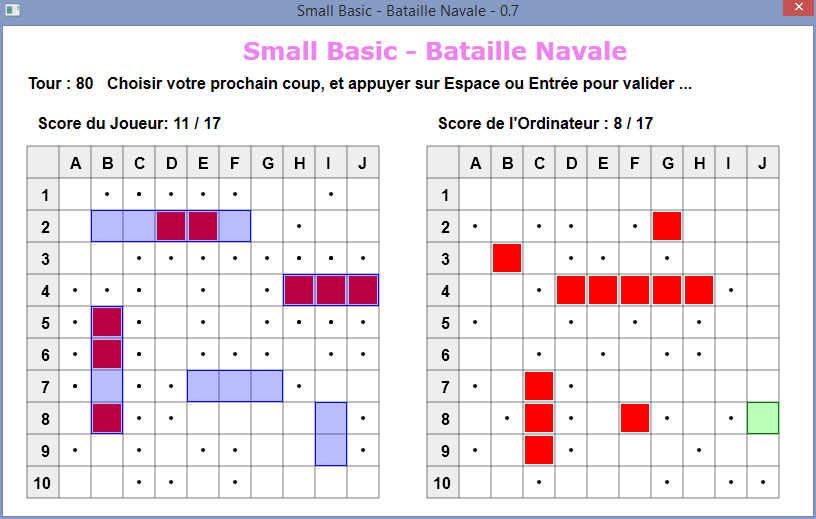
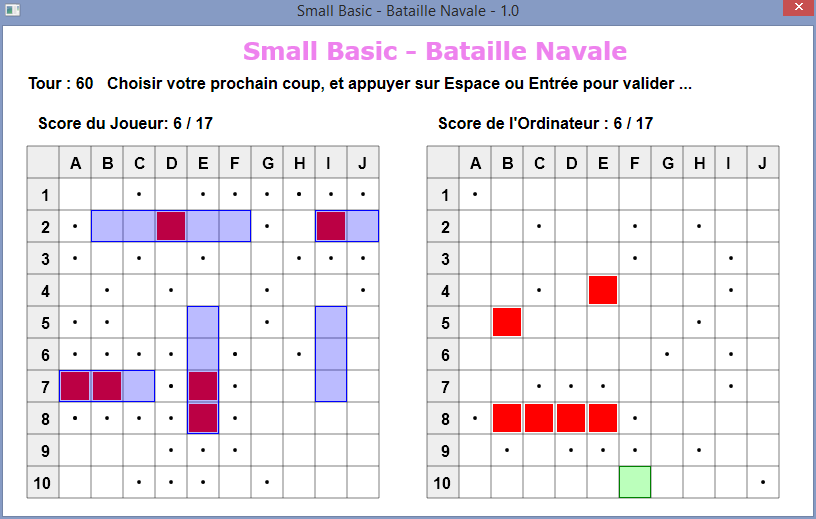
Display forbidden cells in player creation board

diff --git a/README.md b/README.md
@@ -2,15 +2,21 @@
 
 Jeu de Bataille Navale en Small Basic.
 
-- Vous pouvez importer le jeu : [PMD822-0](http://smallbasic.com/program/?PMD822-0)
+- Vous pouvez importer le jeu : [PMD822-1](http://smallbasic.com/program/?PMD822-1)
 
 # Battleship
 
 Battleship game in Small Basic.
 
-- You can import the game : [MRV593-1](http://smallbasic.com/program/?MRV593-1)
+- You can import the game : [MRV593-2](http://smallbasic.com/program/?MRV593-2)
 
 # Changelog
+
+- V:1.0
+	- [fr] Affichage des cellules non autorisées à la création du tableau du joueur
+	- [fr] Version testée, donc release 1.0
+	- [en] Show fobidden cells in player board creation
+	- [en] Version tested, release 1.0
 
 - V:0.7
 	- [fr] Publication de la version française
